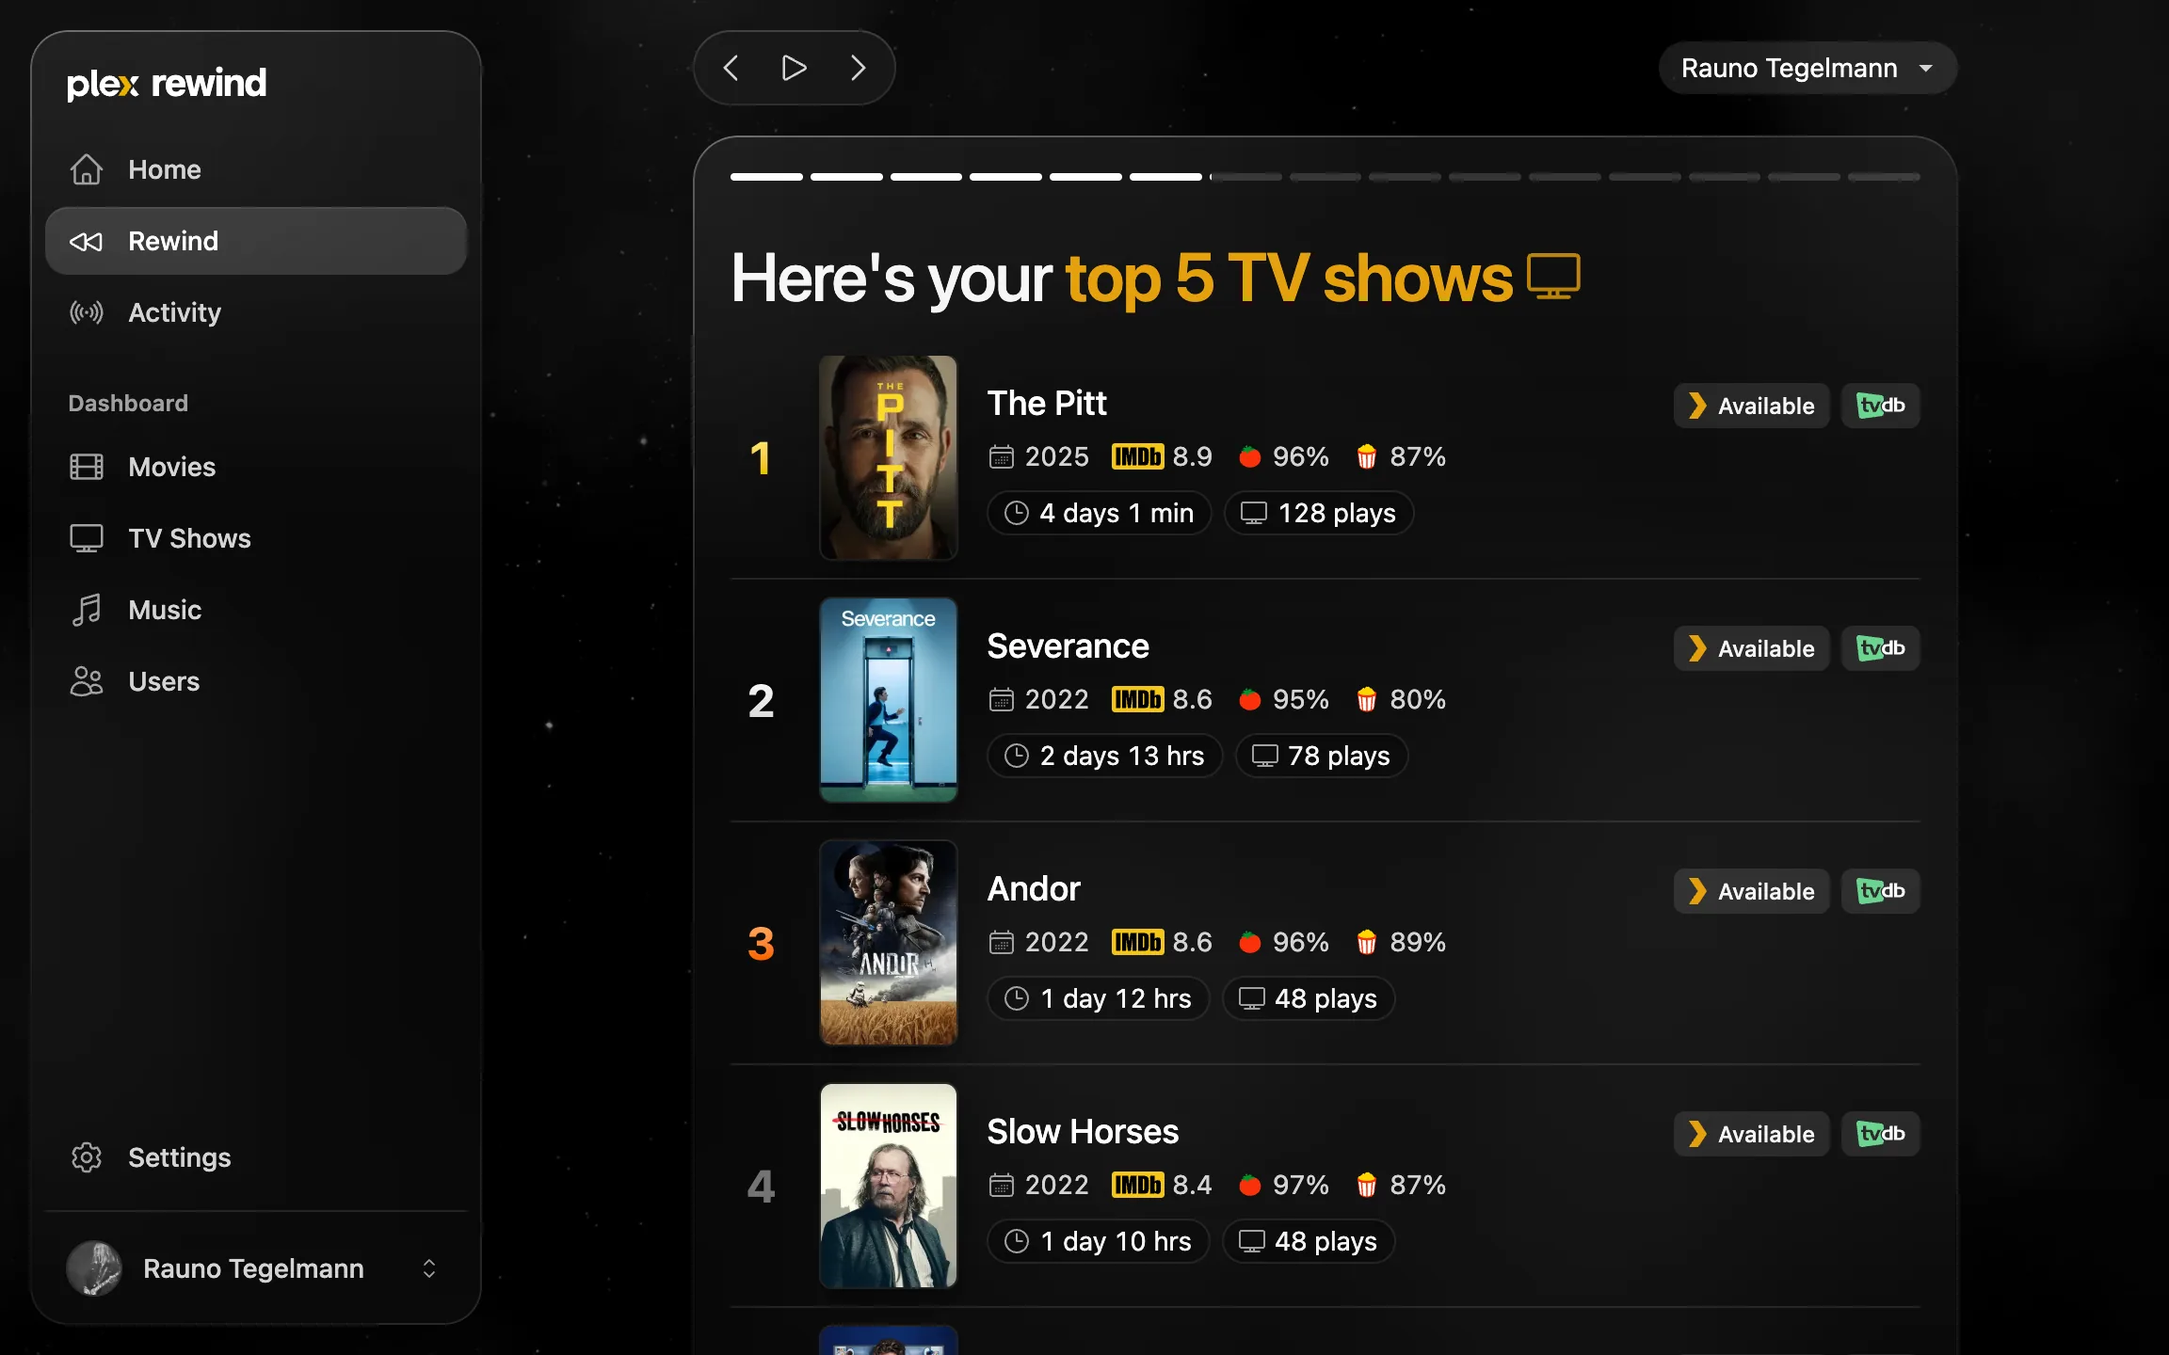
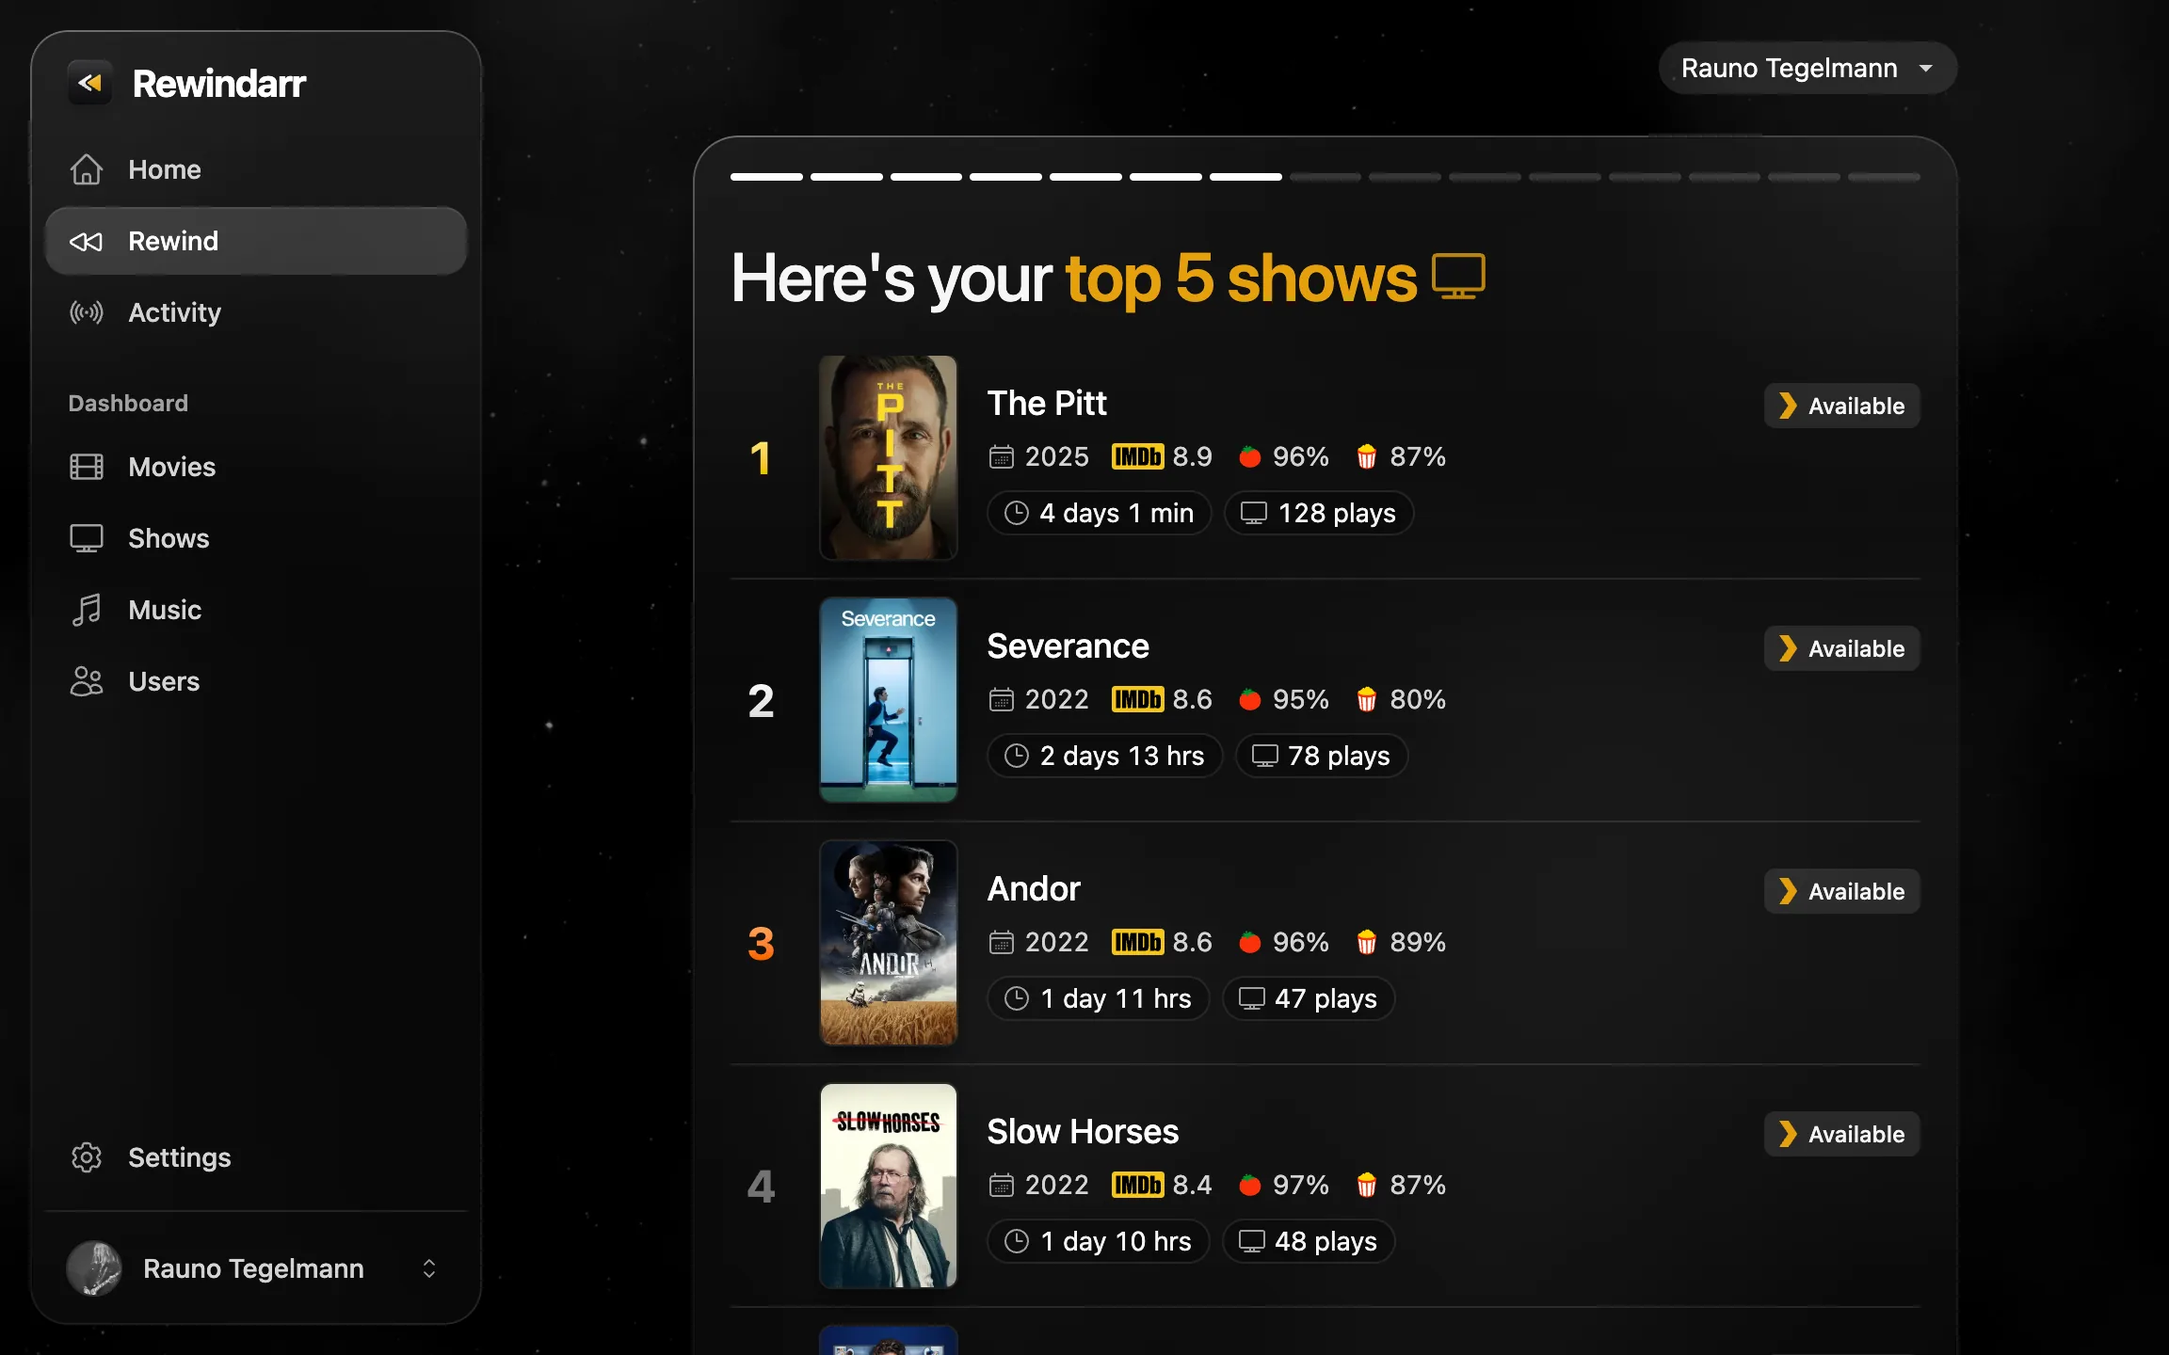
chore(branding): point links at the renamed repo and refresh the README (#448)

diff --git a/src/app/activity/_components/ActivityItem.tsx b/src/app/activity/_components/ActivityItem.tsx
@@ -379,12 +379,12 @@ export default function ActivityItem({
                 {formatValue(subtitleSource || subtitleStream)}
               </Detail>
             )}
-          {/* The profile describes what is streamed, so it goes with that bitrate */}
+          {/* The profile names the bitrate it streams at, and bandwidth shows
+              the real one, so the stream bitrate is only for no profile */}
           <Detail
             label={t('quality')}
             convertedTo={
-              qualityConversion &&
-              formatValue(quality_profile, qualityConversion)
+              qualityConversion && (quality_profile || qualityConversion)
             }
           >
             {formatValue(

diff --git a/src/app/_components/HeaderControls.tsx b/src/app/_components/HeaderControls.tsx
@@ -69,7 +69,7 @@ export default function HeaderControls({ className }: Props) {
     <div className={clsx('icon-button-group', className)}>
       {version.hasUpdate && isAdmin && (
         <a
-          href='https://github.com/RaunoT/plex-rewind/releases'
+          href='https://github.com/RaunoT/rewindarr/releases'
           aria-label={t('updateAvailable')}
           target='_blank'
           className='icon-button'

diff --git a/src/utils/sourceSnapshot.test.ts b/src/utils/sourceSnapshot.test.ts
@@ -27,7 +27,7 @@ async function waitForSave() {
 }
 
 beforeEach(() => {
-  directory = fs.mkdtempSync(path.join(os.tmpdir(), 'plex-rewind-snapshot-'))
+  directory = fs.mkdtempSync(path.join(os.tmpdir(), 'rewindarr-snapshot-'))
   fs.mkdirSync(path.join(directory, 'config'))
   vi.spyOn(process, 'cwd').mockReturnValue(directory)
   // The module keeps its state on globalThis, which outlives resetModules

diff --git a/src/app/_components/Sidebar.tsx b/src/app/_components/Sidebar.tsx
@@ -123,7 +123,7 @@ export default function Sidebar({ libraries, settings }: Props) {
             {version.hasUpdate && (
               <li>
                 <a
-                  href='https://github.com/RaunoT/plex-rewind/releases'
+                  href='https://github.com/RaunoT/rewindarr/releases'
                   target='_blank'
                   className='sidebar-link'
                 >

diff --git a/src/app/settings/_components/SettingsVersion.tsx b/src/app/settings/_components/SettingsVersion.tsx
@@ -9,7 +9,7 @@ export default function SettingsVersion() {
 
   return (
     <a
-      href='https://github.com/RaunoT/plex-rewind/releases'
+      href='https://github.com/RaunoT/rewindarr/releases'
       target='_blank'
       className='glass-pill focus-visible:focus-ring mx-auto mt-4 block w-fit px-3 py-1 font-mono text-xs text-neutral-300 transition-colors hover:text-white'
     >

diff --git a/src/utils/playHistoryFile.test.ts b/src/utils/playHistoryFile.test.ts
@@ -70,7 +70,7 @@ function writeFile(content: unknown) {
 }
 
 beforeEach(() => {
-  directory = fs.mkdtempSync(path.join(os.tmpdir(), 'plex-rewind-'))
+  directory = fs.mkdtempSync(path.join(os.tmpdir(), 'rewindarr-'))
   fs.mkdirSync(path.join(directory, 'config'))
   vi.spyOn(process, 'cwd').mockReturnValue(directory)
   vi.spyOn(console, 'warn').mockImplementation(() => {})

diff --git a/src/app/settings/layout.tsx b/src/app/settings/layout.tsx
@@ -66,7 +66,7 @@ export default async function SettingsLayout({ children }: Props) {
           {t('becomeASponsor')}
         </a>
         <a
-          href='https://github.com/RaunoT/plex-rewind/issues'
+          href='https://github.com/RaunoT/rewindarr/issues'
           target='_blank'
           className='link-light inline-flex items-center gap-2'
         >

diff --git a/src/utils/getVersion.ts b/src/utils/getVersion.ts
@@ -56,7 +56,7 @@ export default async function getVersion(): Promise<Version> {
   ) {
     try {
       const res = await fetch(
-        'https://api.github.com/repos/RaunoT/plex-rewind/releases',
+        'https://api.github.com/repos/RaunoT/rewindarr/releases',
         {
           next: {
             revalidate: 600,

diff --git a/src/utils/getSettings.test.ts b/src/utils/getSettings.test.ts
@@ -70,7 +70,7 @@ function listBackups(): string[] {
 }
 
 beforeEach(() => {
-  directory = fs.mkdtempSync(path.join(os.tmpdir(), 'plex-rewind-settings-'))
+  directory = fs.mkdtempSync(path.join(os.tmpdir(), 'rewindarr-settings-'))
   settingsPath = path.join(directory, 'config/settings.json')
   editCount = 0
 

diff --git a/README.md b/README.md
@@ -1,15 +1,15 @@
 <img src="src/assets/rewindarr.svg" alt="" width="96" height="96">
 
-# Rewindarr
+# Rewindarr (formerly plex-rewind)
 
-[![Rewindarr release status](https://img.shields.io/github/actions/workflow/status/RaunoT/plex-rewind/release.yml?label=Release)](https://github.com/RaunoT/plex-rewind/actions/workflows/release.yml)
-[<img src="https://img.shields.io/github/v/release/raunot/plex-rewind?label=latest" alt="Rewindarr latest release">](https://github.com/RaunoT/plex-rewind/releases)
-[![Rewindarr pre-release status](https://img.shields.io/github/actions/workflow/status/RaunoT/plex-rewind/pre-release.yml?include_prereleases=true&label=Pre-release)](https://github.com/RaunoT/plex-rewind/actions/workflows/pre-release.yml)
-[<img src="https://img.shields.io/github/v/release/RaunoT/plex-rewind?include_prereleases&label=develop" alt="Rewindarr develop release">](https://github.com/RaunoT/plex-rewind/releases)
+[![Rewindarr release status](https://img.shields.io/github/actions/workflow/status/RaunoT/rewindarr/release.yml?label=Release)](https://github.com/RaunoT/rewindarr/actions/workflows/release.yml)
+[<img src="https://img.shields.io/github/v/release/RaunoT/rewindarr?label=latest" alt="Rewindarr latest release">](https://github.com/RaunoT/rewindarr/releases)
+[![Rewindarr pre-release status](https://img.shields.io/github/actions/workflow/status/RaunoT/rewindarr/pre-release.yml?include_prereleases=true&label=Pre-release)](https://github.com/RaunoT/rewindarr/actions/workflows/pre-release.yml)
+[<img src="https://img.shields.io/github/v/release/RaunoT/rewindarr?include_prereleases&label=develop" alt="Rewindarr develop release">](https://github.com/RaunoT/rewindarr/releases)
 
-A rewind for your media server, inspired by the likes of [Spotify Wrapped](https://www.spotify.com/us/wrapped) and [Tautulli](https://tautulli.com). Formerly Plex Rewind.
+A rewind for your media server, inspired by the likes of [Spotify Wrapped](https://www.spotify.com/us/wrapped) and [Tautulli](https://tautulli.com).
 
-Present [Plex](https://plex.tv) and [Jellyfin](https://jellyfin.org) user statistics and habits in a beautiful and organized manner - as a web application powered by [Next.js](https://nextjs.org) and [Tailwind.css](https://tailwindcss.com), using data from [Tautulli](https://tautulli.com) or [Tracearr](https://github.com/connorgallopo/Tracearr), and [Seerr](https://seerr.dev). You can also disable the Rewind functionality and just use it as an easily sharable Dashboard for your users or vice versa!
+Present [Plex](https://plex.tv) and [Jellyfin](https://jellyfin.org) user statistics and habits in a beautiful and organized manner, using data from [Tautulli](https://tautulli.com) or [Tracearr](https://github.com/connorgallopo/Tracearr), and [Seerr](https://seerr.dev). You can also disable the Rewind functionality and just use it as an easily sharable Dashboard for your users or vice versa!
 
 | Media server | Statistics from      |
 | ------------ | -------------------- |
@@ -24,16 +24,15 @@ Present [Plex](https://plex.tv) and [Jellyfin](https://jellyfin.org) user statis
 - 📆 Rewind - allows your users view their statistics and habits for a (customizable) time period.
 - 👀 Dashboard - provides an easily glanceable overview of activity on your server for all your libraries, personalized or general.
 - ⚡ Activity - see what's happening on your server in real time.
-- 📊 Fuelled by data from [Tautulli](https://tautulli.com) or [Tracearr](https://github.com/connorgallopo/Tracearr) - the backbone responsible for the heavy lifting regarding statistics. Tracearr also brings Jellyfin support.
+- 📊 Fuelled by data from [Tautulli](https://tautulli.com) or [Tracearr](https://github.com/connorgallopo/Tracearr) - the backbone responsible for the heavy lifting regarding statistics.
 - 🔗 Integrates with [Seerr](https://seerr.dev) - show request breakdowns and totals and display request buttons next to deleted fan-favorite media items.
-- 🍅 Ratings from TMDB, IMDb and Rotten Tomatoes - each can be turned on or off.
+- 🍅 Ratings from TMDB, IMDb and Rotten Tomatoes.
 - 🔐 Log in with Plex or Jellyfin - secure login and session management with the account you already use for your media server.
 - 🚀 PWA support - installable on mobile devices and desktops.
 - 🐳 Easy deployment - run the application in a containerized environment with [Docker](https://www.docker.com).
 - 🌐 Multi-language support - currently supporting English, Estonian, French, German, Italian and Spanish. See [translations](#translations) for more information.
-- ⭐ All of this and more - powered by [Next.js](https://nextjs.org).
 
-Keep an eye on the [issues page](https://github.com/RaunoT/plex-rewind/issues) to see what new features have already been requested or to make your own request!
+Keep an eye on the [issues page](https://github.com/RaunoT/rewindarr/issues) to see what new features have already been requested or to make your own request!
 
 ## Preview
 
@@ -70,13 +69,9 @@ services:
 
 > _NOTE: Coming from Plex Rewind? The images are also published under their old names, `ghcr.io/raunot/plex-rewind` and `raunoot/plex-rewind`, for now. Switch to `ghcr.io/raunot/rewindarr` or `raunoot/rewindarr` and keep the same `config` volume; the settings carry over._
 
-> _NOTE: With Jellyfin, choose Tracearr as the source and pick the Jellyfin server in the connection settings. Users sign in with their Jellyfin username and password, which go to Jellyfin through Rewindarr, so set the Jellyfin URL to one Rewindarr can reach. The same URL is used for links that open titles in Jellyfin. Tracearr doesn't say who is a Jellyfin administrator, so admin rights come from Jellyfin when a user signs in._
-
 > _NOTE: If you run into authentication issues, try setting `NEXTAUTH_URL` and `NEXT_PUBLIC_SITE_URL` to your external Docker IP, instead of localhost. For example `http://192.168.1.1:8383`._
 
 > _NOTE: Rewindarr builds its statistics from the play history, which it reads once and saves to `config/play-history.json.gz`. After that, only the newest plays are read again, even across restarts. The read starts when Rewindarr starts, and its progress is shown in the connection settings. Tautulli is read 5,000 plays at a time, which usually takes seconds. Tracearr is read 100 plays at a time, one request after another, and allows 240 requests a minute by default, so the first read of 100,000 plays takes about 5 minutes. For Tracearr histories over 50,000 plays, set its API rate limit (Settings → Data → API, restart required) to 1,200. A higher value doesn't make it faster, as each request waits for the previous one, and on modest hardware 600 puts less load on Tracearr._
-
-> _NOTE: A play counts once it gets at least halfway through the item, which can be changed in the general settings. Shorter plays still add their watch time, but not a play, so play counts can be lower than Tautulli's or Tracearr's. At 0%, every play counts._
 
 For those that need it, a simple status page is also available at `/api/status`.
 
@@ -88,7 +83,7 @@ To help translate the application to your language, create a new `<language-code
 
 ## Donate
 
-If you like this project and wish to support it, you can do so on [GitHub Sponsors](https://github.com/sponsors/RaunoT) (preferred) or [Buy Me a Coffee](https://buymeacoffee.com/fr9lzfrhdh). Thank you! ❤
+If you like this project and wish to support it, you can do so on [GitHub Sponsors](https://github.com/sponsors/RaunoT) or [Buy Me a Coffee](https://buymeacoffee.com/fr9lzfrhdh). Thank you! ❤
 
 ### Supporters
 
@@ -96,10 +91,10 @@ If you like this project and wish to support it, you can do so on [GitHub Sponso
 
 ## Star History
 
-<a href="https://star-history.dera.page/#RaunoT/plex-rewind&type=date&legend=top-left">
+<a href="https://star-history.dera.page/#RaunoT/rewindarr&type=date&legend=top-left">
  <picture>
-   <source media="(prefers-color-scheme: dark)" srcset="https://star-history.dera.page/svg?repos=RaunoT/plex-rewind&type=date&theme=dark&legend=top-left" />
-   <source media="(prefers-color-scheme: light)" srcset="https://star-history.dera.page/svg?repos=RaunoT/plex-rewind&type=date&legend=top-left" />
-   <img alt="Star History Chart" src="https://star-history.dera.page/svg?repos=RaunoT/plex-rewind&type=date&legend=top-left" />
+   <source media="(prefers-color-scheme: dark)" srcset="https://star-history.dera.page/svg?repos=RaunoT/rewindarr&type=date&theme=dark&legend=top-left" />
+   <source media="(prefers-color-scheme: light)" srcset="https://star-history.dera.page/svg?repos=RaunoT/rewindarr&type=date&legend=top-left" />
+   <img alt="Star History Chart" src="https://star-history.dera.page/svg?repos=RaunoT/rewindarr&type=date&legend=top-left" />
  </picture>
 </a>

diff --git a/CONTRIBUTING.md b/CONTRIBUTING.md
@@ -22,8 +22,8 @@ Please follow the guidelines below.
 1. [Fork](https://help.github.com/articles/fork-a-repo/) the repository to your own GitHub account and [clone](https://help.github.com/articles/cloning-a-repository/) it to your local device:
 
    ```bash
-   git clone https://github.com/YOUR_USERNAME/plex-rewind.git
-   cd plex-rewind
+   git clone https://github.com/YOUR_USERNAME/rewindarr.git
+   cd rewindarr
    ```
 
 2. Create `.env.local` file in the root of the project from the `.env.example` file:
@@ -57,7 +57,7 @@ Please follow the guidelines below.
 7. Should you need to update your fork, you can do so by rebasing from `upstream`. Add the remote once:
 
    ```bash
-   git remote add upstream https://github.com/RaunoT/plex-rewind.git
+   git remote add upstream https://github.com/RaunoT/rewindarr.git
    ```
 
    Then fetch and rebase whenever you need to:
@@ -85,9 +85,9 @@ The screenshots in `.github/screenshots` use made-up data, so they don't show an
 2. Run a second copy of the app, so your own settings stay untouched. Settings are read from the folder the app runs in, so a worktree gets its own:
 
    ```bash
-   git worktree add ../plex-rewind-screenshots
-   cp .env.local ../plex-rewind-screenshots/
-   cd ../plex-rewind-screenshots && pnpm install
+   git worktree add ../rewindarr-screenshots
+   cp .env.local ../rewindarr-screenshots/
+   cd ../rewindarr-screenshots && pnpm install
    ```
 
    Save this as `config/settings.json` there, then start it with `NEXTAUTH_URL=http://localhost:3001 pnpm dev -p 3001` and sign in:
@@ -104,8 +104,8 @@ The screenshots in `.github/screenshots` use made-up data, so they don't show an
        "complete": true
      },
      "general": {
-       "activeLibraries": ["movies", "tv-shows", "music"],
-       "activeExternalLinks": ["imdb", "tvdb", "rottenTomatoes", "letterboxd"],
+       "activeLibraries": ["movies", "shows", "music"],
+       "activeExternalLinks": ["imdb", "rottenTomatoes", "letterboxd"],
        "complete": true
      },
      "rewind": { "complete": true },
@@ -135,7 +135,7 @@ pnpm build
 
 ### Code guidelines
 
-- If you are taking on an existing bug or feature ticket, please comment on the [issue](https://github.com/RaunoT/plex-rewind/issues) to avoid multiple people working on the same thing.
+- If you are taking on an existing bug or feature ticket, please comment on the [issue](https://github.com/RaunoT/rewindarr/issues) to avoid multiple people working on the same thing.
 
 - All commits must follow [Conventional Commits](https://www.conventionalcommits.org/en/v1.0.0/) rules. Run `pnpm commit` for a guided prompt, or write the message yourself. Besides the usual types (`feat`, `fix`, `docs`, `chore` and so on) there is a `ui` type for UI changes. A commit hook checks the message.
 

diff --git a/SECURITY.md b/SECURITY.md
@@ -8,7 +8,7 @@ Fixes only go into new releases, so please check the latest release before repor
 
 Please do not report security issues in public issues, pull requests or discussions.
 
-Use GitHub's private vulnerability reporting instead: [report a vulnerability](https://github.com/RaunoT/plex-rewind/security/advisories/new). Only the maintainer can see the report.
+Use GitHub's private vulnerability reporting instead: [report a vulnerability](https://github.com/RaunoT/rewindarr/security/advisories/new). Only the maintainer can see the report.
 
 Helpful things to include:
 
